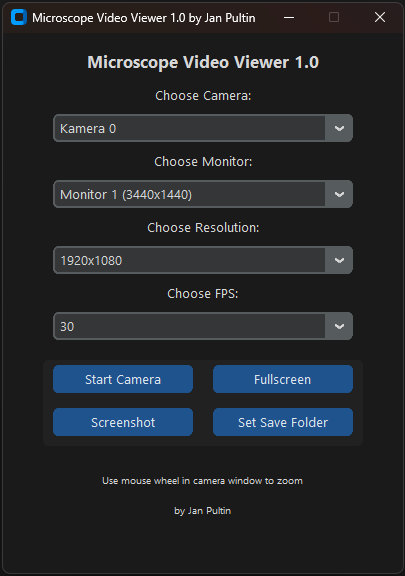
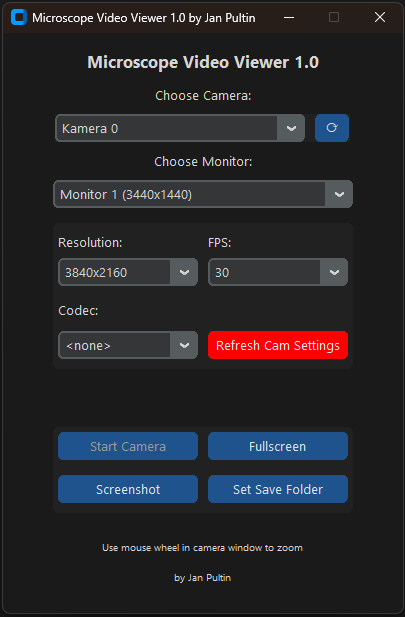
Added function for finding the FPS, RES and Codec for the choosen camera and a refresh button for the camera dropdown

diff --git a/README.md b/README.md
@@ -1,21 +1,21 @@
-# 🔬 Microscope Video Viewer 1.0
-
-A modern, minimalistic desktop application built with Python and OpenCV to display live video streams from USB microscopes or webcams.  
-Created by **Jan Pultin** with a focus on full-screen monitoring, screenshot capture, and user-friendly controls.
+**Microscope Video Viewer 1.0**  
+_A modern, minimalistic desktop application built with Python, OpenCV, and CustomTkinter to display live video streams from USB microscopes or webcams. Created by Jan Pultin._
 
 ---
 
 ## ✅ Features
 
-- 📷 Select any connected camera (index-based listing)
-- 🖥 Choose which monitor to display the video on
-- 🧩 Resolution presets: 4K, 1440p, 1080p, 720p (auto-detected per device)
-- 🎞 Adjustable frame rate: 15 / 30 / 60 FPS
-- 🖼 Fullscreen toggle via button or `F11`
-- 📸 Take screenshots with one click
-- 💾 Choose where screenshots are saved
-- 🔍 Live zoom with mouse wheel in the camera window
-- 🎨 CustomTkinter dark-themed modern UI
+- **📷 Camera Selection**: Index-based listing of all connected cameras.  
+- **🔄 Refresh Cameras**: Quickly rescan attached devices with a responsive loading screen.  
+- **🖥 Monitor Selection**: Choose which monitor to display the video on.  
+- **🎛 Dynamic Settings Grid**: 2×2 layout for Resolution, FPS, Codec, and **Refresh Camera Max Settings** button.  
+- **🖼 Resolution Presets**: Auto-detected common resolutions (4K, 1440p, 1080p, 720p, etc.) per device.  
+- **⏱ Adjustable FPS**: Test and select supported frame rates (15, 30, 60).  
+- **🎨 Codec Detection**: Live identification of compatible FOURCC codecs (`MJPG`, `YUY2`, `NV12`, `RGB3`) with loading indicator.  
+- **Ⓜ Fullscreen Toggle**: Enter/exit fullscreen via button or F11.  
+- **📸 Screenshot Capture**: Take and save current frame in user‑chosen folder.  
+- **🖱 Live Zoom**: Mouse wheel support within the video window.  
+- **🌓 Dark Theme**: Modern dark‑blue color scheme by CustomTkinter.  
 
 ---
 
@@ -23,70 +23,63 @@ Created by **Jan Pultin** with a focus on full-screen monitoring, screenshot cap
 
 ![](screenshots/ui.png)
 
----
-
 ## 🚀 Installation
 
-### 1. Install Python (>= 3.10)
-Download from [https://www.python.org](https://www.python.org)
+1. **Prerequisites**:  
+   - Python 3.10 or higher  
+   - Git (optional, for cloning)
 
-### 2. Clone the repository
-```bash
-git clone https://github.com/yourname/microscope-viewer.git
-cd microscope-viewer
-```
+2. **Clone Repository**:  
+   ```bash
+   git clone https://github.com/janptn/microscope-viewer.git
+   cd microscope-viewer
+   ```
 
-### 3. Install dependencies
-```bash
-pip install -r requirements.txt
-```
-
-Example `requirements.txt`:
-```
-opencv-python
-customtkinter
-screeninfo
-numpy
-```
+3. **Install Dependencies**:  
+   ```bash
+   pip install -r requirements.txt
+   ```
+   **Example** `requirements.txt`:  
+   ```
+   opencv-python
+   customtkinter
+   screeninfo
+   numpy
+   ```
 
 ---
 
 ## ▶ Usage
 
-Run the application with:
+Run the application:
 ```bash
-python webcam.py
+python main.py
 ```
 
-### Controls:
-- Use dropdowns to select **camera**, **resolution**, **monitor**, and **FPS**
-- Use mouse wheel inside the video window to zoom in/out
-- Press `F11` or click **Fullscreen** to toggle fullscreen mode
-- Click **Screenshot** to save the current frame
-- Click **Set Save Folder** to choose where screenshots are saved
+**Controls**:
+- Select **Camera**, **Monitor**, **Resolution**, **FPS**, and **Codec** from dropdowns.  
+- Click **Refresh Cameras** to rescan devices.  
+- Use **Refresh Camera Max Settings** to detect supported resolution, FPS, and codec for the selected camera (with clear loading screen).  
+- **Start Camera** to begin live preview.  
+- **Fullscreen** button or **F11** to toggle fullscreen view.  
+- **Screenshot** to capture current frame.  
+- **Set Save Folder** to choose directory for screenshots.  
+- Mouse wheel for **zoom** within the video output window.  
 
 ---
 
-## ⚠ Notes
+## 🧠 Future Improvements
 
-- Camera detection is based on index (e.g. Camera 0, Camera 1). If you need real device names, integration with `ffmpeg` can be added.
-- Screenshots are saved as `.png` with timestamp filenames.
-
----
-
-## 🧠 To Do (Future Ideas)
-
-- Real device name detection via ffmpeg or DirectShow
-- Recording functionality
-- Image enhancement or filters
-- Settings memory between sessions
+- **Device Name Display**: Integrate with FFmpeg or DirectShow for real device names.  
+- **Video Recording**: Add start/stop recording to file.  
+- **Advanced Filters**: Real‑time image processing (edge detection, contrast).  
+- **Preferences**: Save user settings across sessions.  
 
 ---
 
 ## 👤 Author
 
-Developed by **Jan Pultin**  
-For technical use with microscopes, camera tests, and educational experiments.
+**Jan Pultin** – Built for laboratory imaging, educational demonstrations, and research.
 
 ---
 
